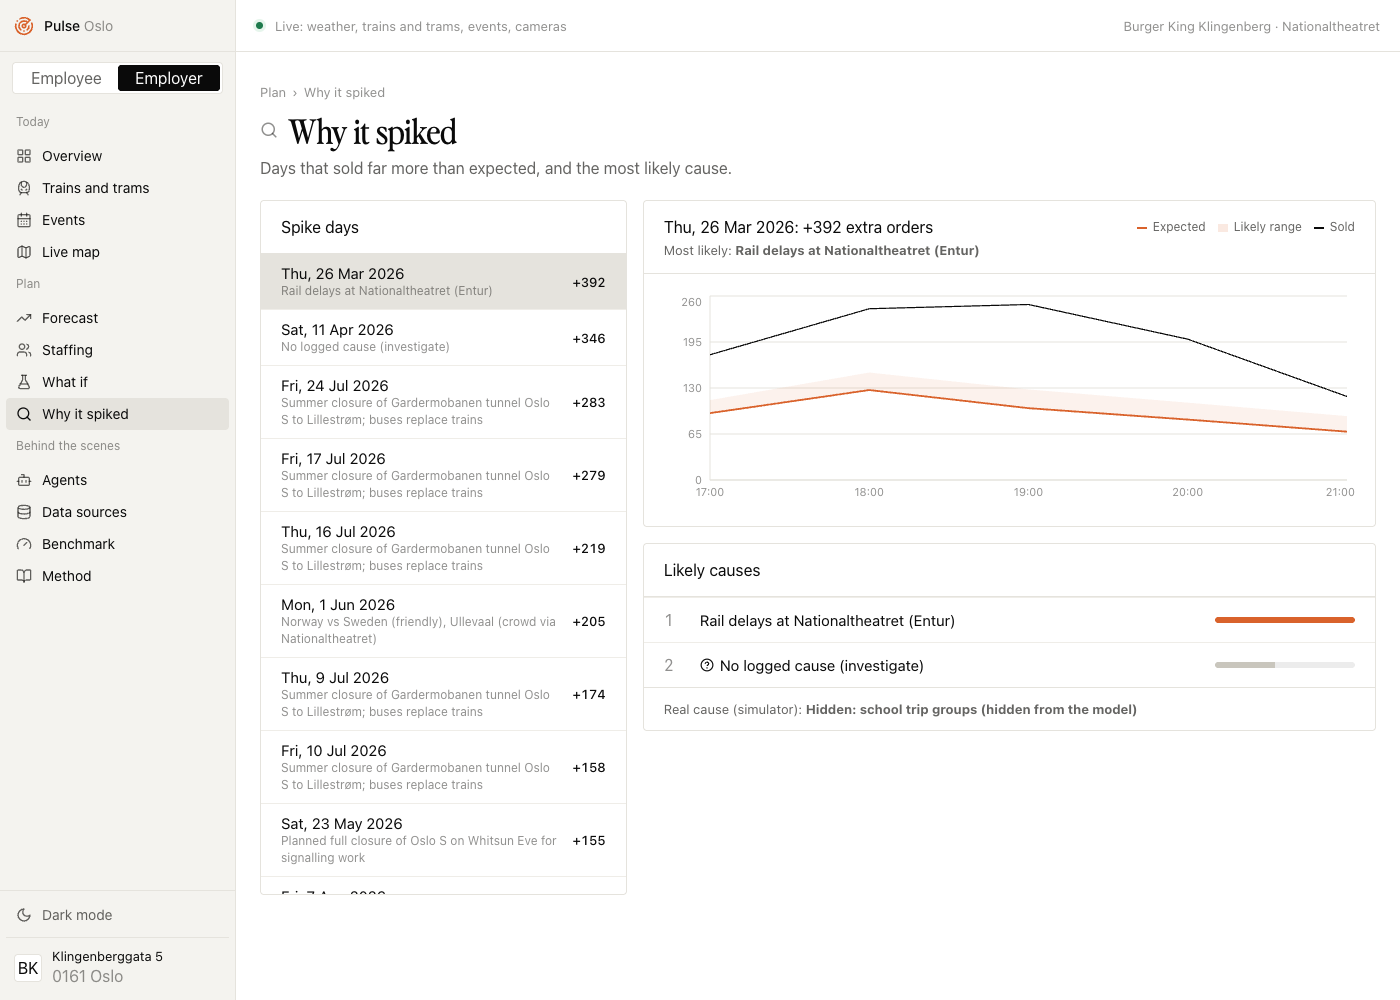
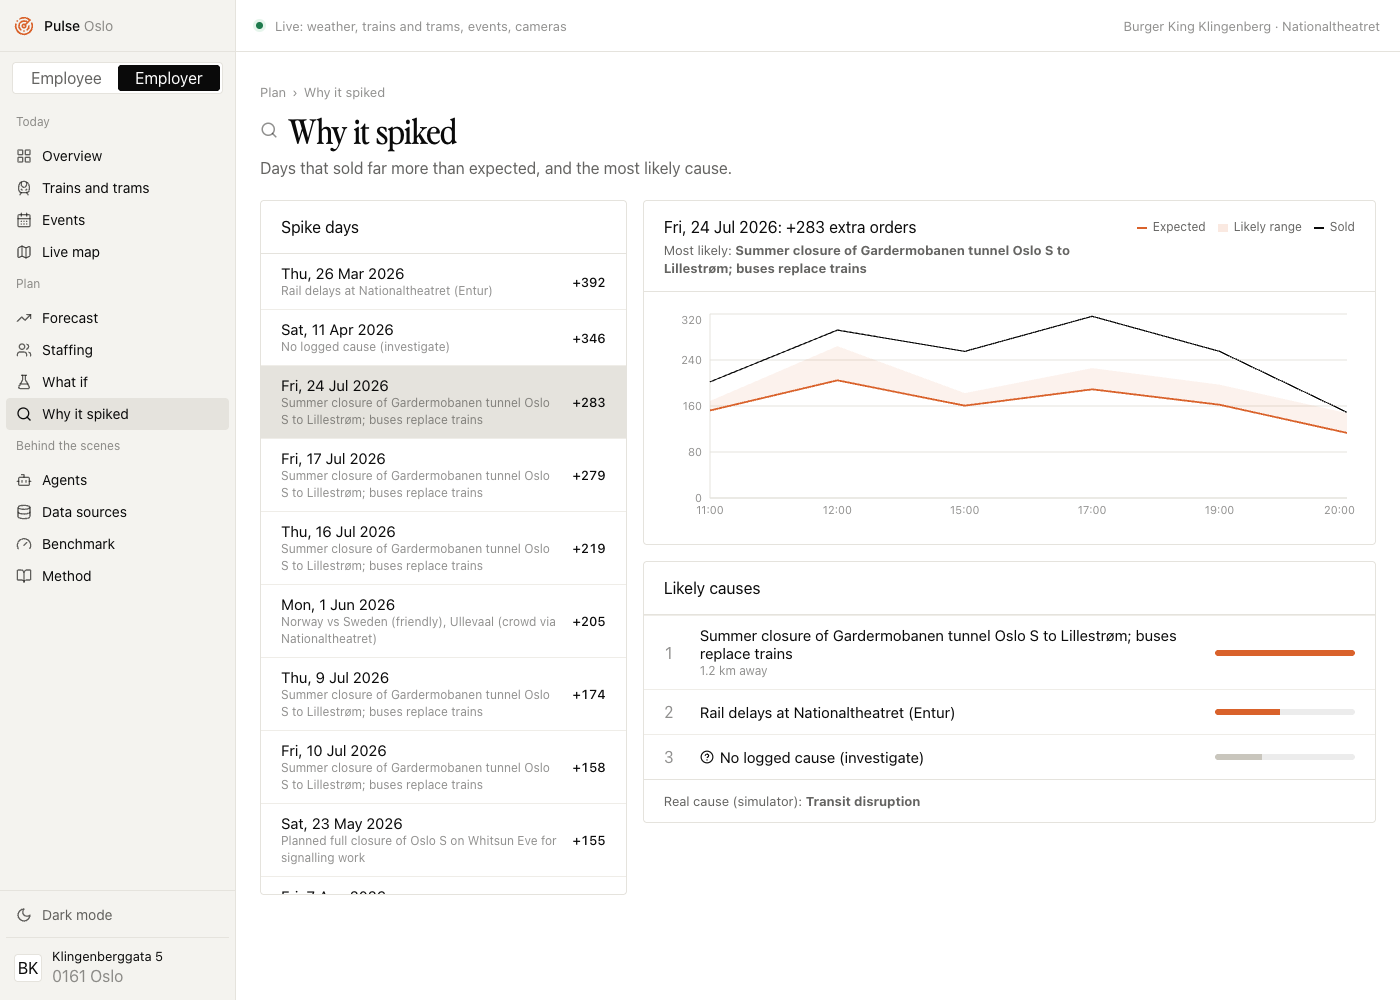
Why it spiked opens on a spike the finder named correctly
Problem: the page opened on the biggest spike, which the finder got wrong.
Why: the first screen of a one-minute demo should show the finder working.
Solution: open on the biggest spike where the top-ranked cause is a real,
correct cause (24 Jul 2026, Gardermobanen tunnel closure). Misses stay in
the list.

diff --git a/src/components/SpikeExplorer.tsx b/src/components/SpikeExplorer.tsx
@@ -25,7 +25,8 @@ function truthText(s: Spike): string | null {
 }
 
 export default function SpikeExplorer({ spikes }: { spikes: Spike[] }) {
-  const [i, setI] = useState(0);
+  // Open on the biggest spike where the finder named a real cause correctly; misses stay in the list.
+  const [i, setI] = useState(() => Math.max(0, spikes.findIndex((x) => x.top1Hit === true && x.candidates[0]?.kind !== "unexplained")));
   const s = spikes[i];
   const max = Math.max(...s.candidates.map((c) => c.score), 1);
   const truth = truthText(s);
